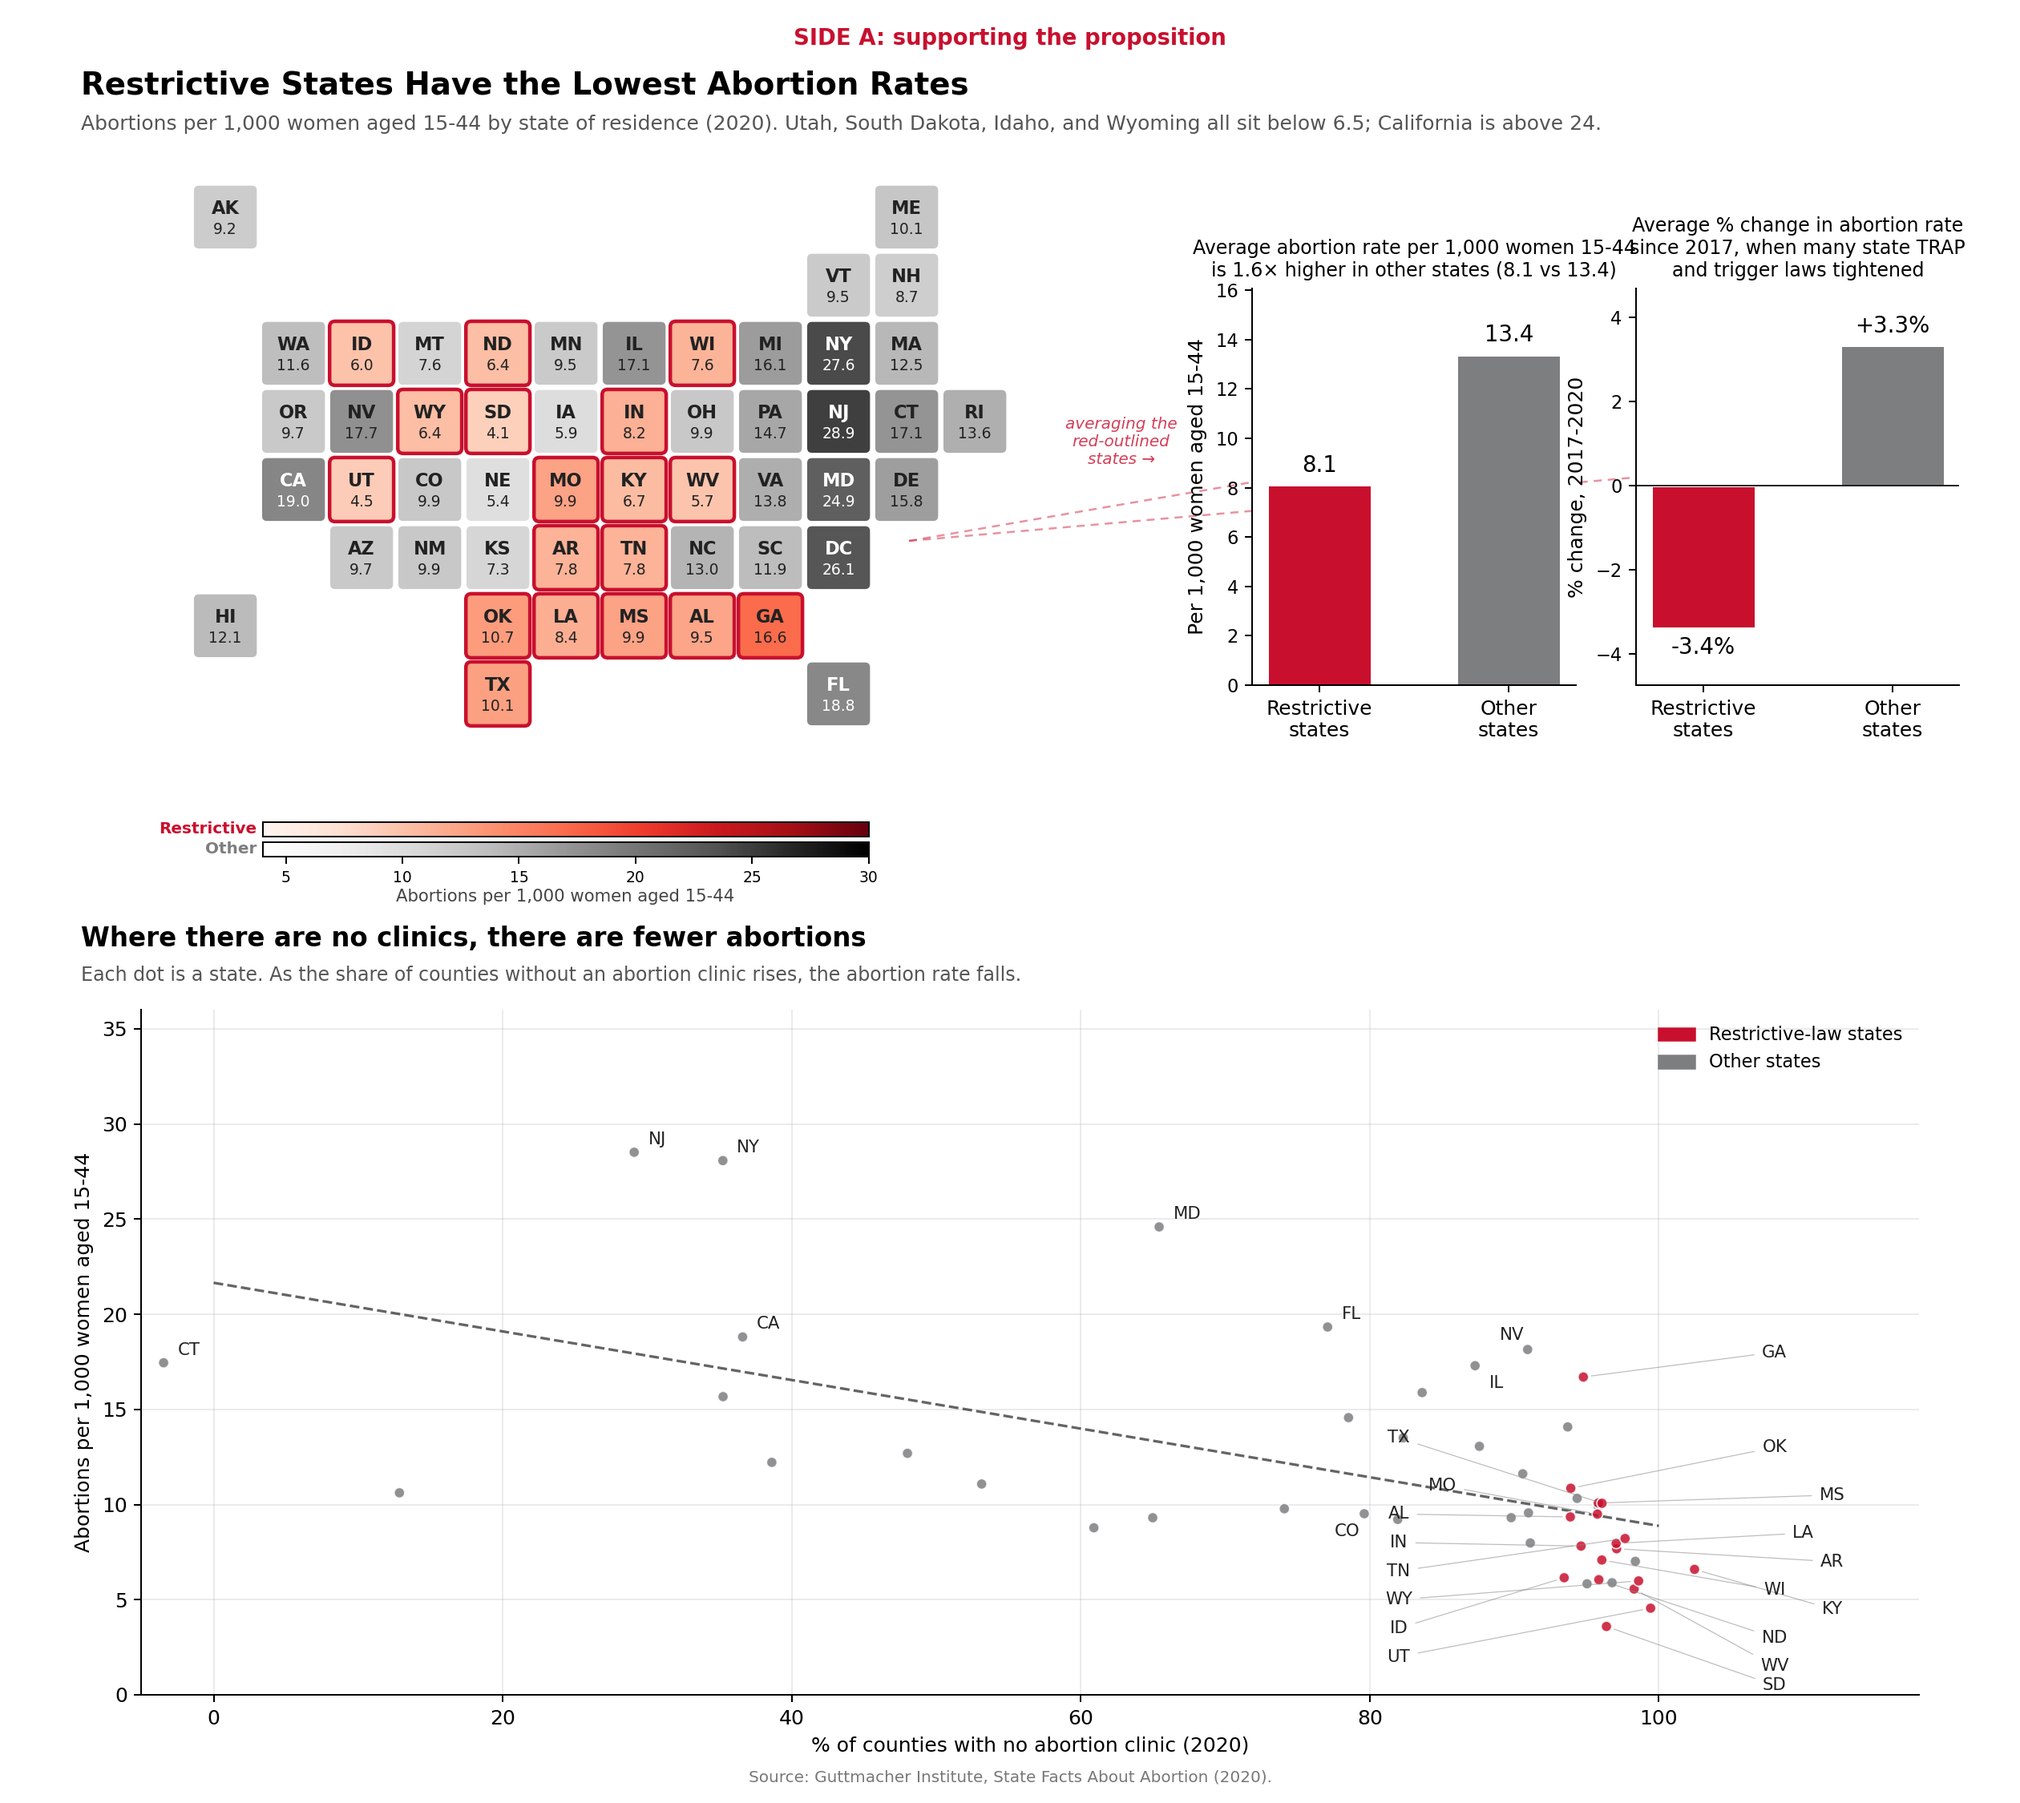
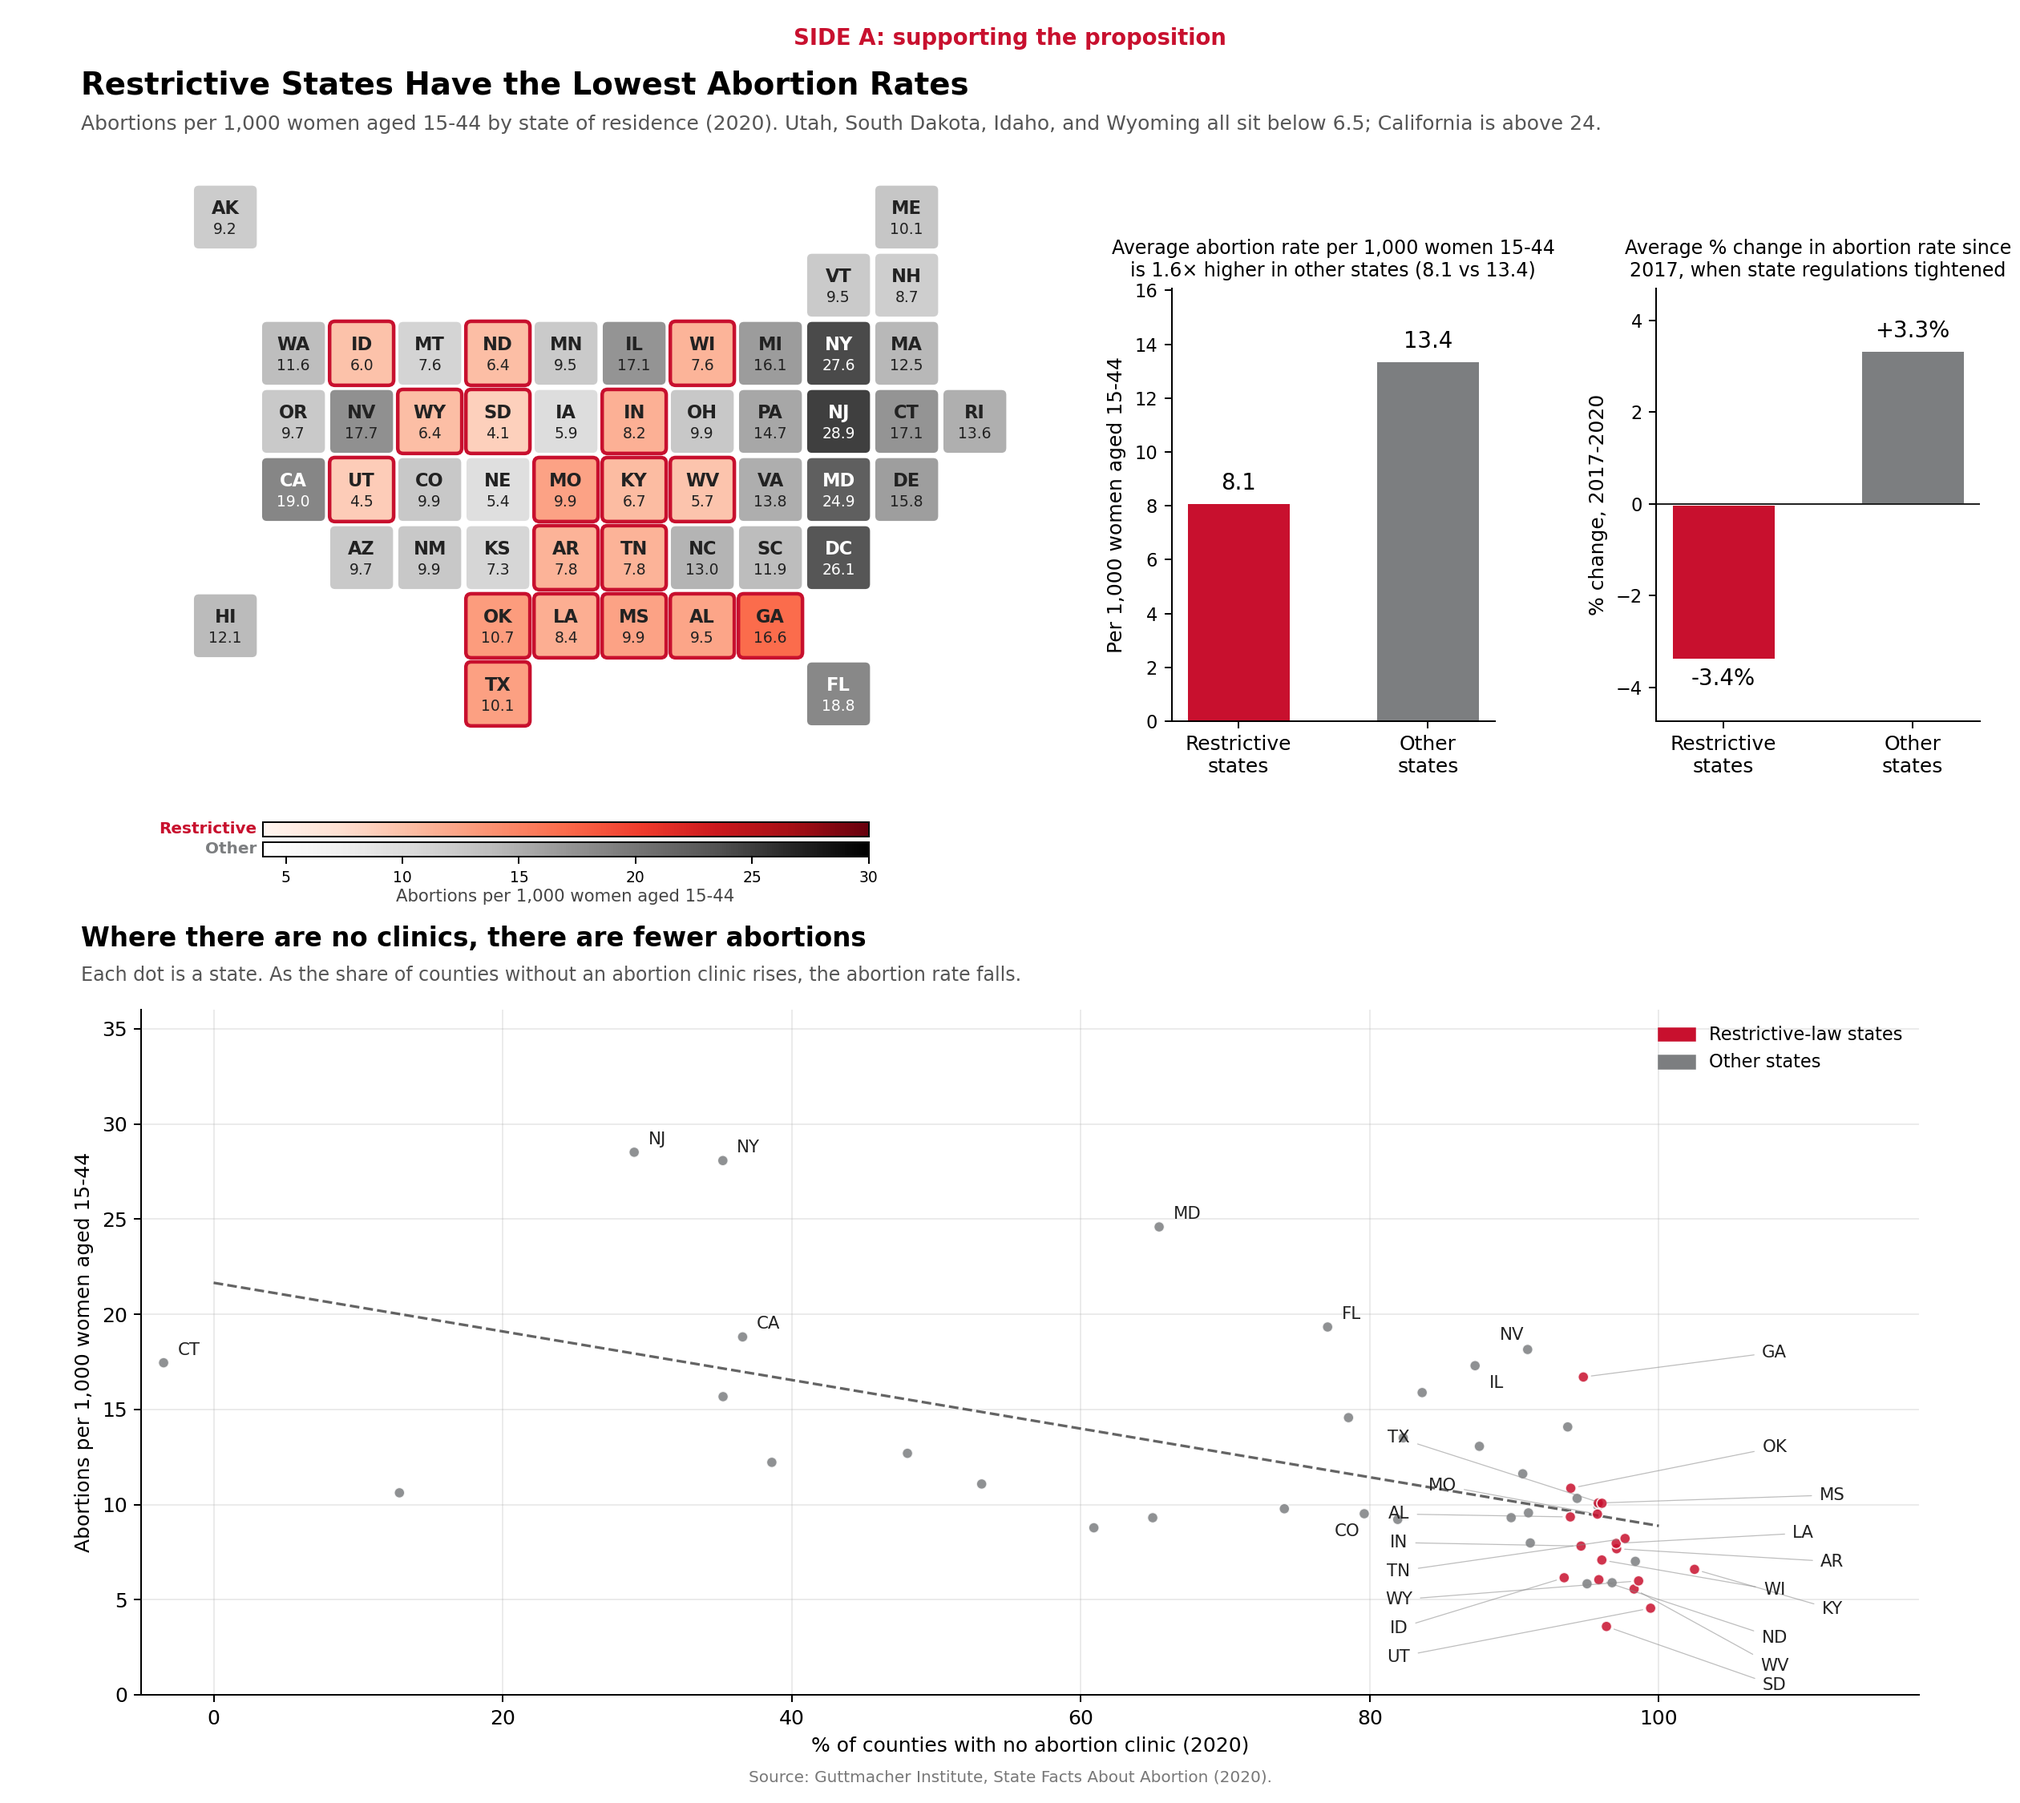
Edits to Format and Write-up

diff --git a/index.html b/index.html
@@ -199,7 +199,6 @@
         <small>Project 2</small>
         Persuasive or Deceptive Visualization?
       </h1>
-
       <p><strong>Elyse Wong</strong> — <em>elw018@ucsd.edu</em></p>
       <p><strong>Philip Chen</strong> — <em>phc006@ucsd.edu</em></p>
       <p><strong>Kyle Zhao</strong> — <em>kyzhao@ucsd.edu</em></p>
@@ -249,7 +248,7 @@
             >
             Both columns are in the dataset. Residence rate counts an abortion
             based on where the woman lives, occurrence rate based on where the
-            procedure happened. So a Missouri woman who gets an abortion in
+            procedure happened. So, a Missouri woman who gets an abortion in
             Illinois shows up in MO's residence rate and IL's occurrence rate.
             Using occurrence would have made restrictive states look near zero
             because almost nothing happens there, so we went with the more
@@ -270,13 +269,12 @@
           <li>
             <span class="score deceptive-1">-1</span>
             <span class="label"
-              >Sequential purple colormap with no breaks.</span
+              >Sequential gray colormap.</span
             >
-            No quantile bins, no labeled breaks, just one continuous ramp. The
-            eye does the binning. We also outline restrictive states in orange,
-            so the conclusion ("orange = pale = it worked") gets pre-loaded
-            before the reader looks at the numbers. A flatter version would
-            use quantile bins or grouped means with the breakpoints labeled.
+            We color and outline the restrictive states in red,
+            so the conclusion ("red = restrictive = it worked") gets pre-loaded
+            before the reader looks at the numbers. Because of the distinct red color 
+            in contrast to the grey, our eyes do the binning and remember how it worked. 
           </li>
           <li>
             <span class="score deceptive-1">-1</span>
@@ -348,22 +346,20 @@
           <li>
             <span class="score earnest-1">+1</span>
             <span class="label">Used the same map structure as Side A.</span>
-            Same tile grid, same purple ramp, same orange outlines on
-            restrictive states. You can flip between the two pages and the
-            states that were pale on A are dark on B. No relabeling tricks,
-            the encoding does the argument on its own.
+            Same tile grid, same grey ramp, and red outlines on
+            restrictive states. You can look between the two graphs and the
+            states that were pale on A are dark on B.
           </li>
           <li>
             <span class="score neutral">&nbsp;0</span>
             <span class="label"
               >Diverging "residence minus occurrence" gap chart.</span
             >
-            The math is sound: a positive gap means a state's residents got
+            A positive gap means a state's residents got
             more abortions than were performed in-state, so the difference
             had to happen somewhere else. The bars make it look like a clean
             handoff to the neighboring state, which is a stronger claim than
-            what the data supports. Some women travel further, some don't
-            get care at all. We didn't annotate any of that.
+            what the data supports. Some women may not care while some knowingly travel further, but we didn't annotate any of that.
           </li>
           <li>
             <span class="score deceptive-1">-1</span>
@@ -381,7 +377,7 @@
             "Women in Restrictive States Just Cross State Lines" reads like a
             verdict. The word "just" papers over the women who can't travel,
             who are the actual hardest case for the proposition. A flatter
-            version: "Most residents of restrictive states obtained abortions
+            version would be: "Most residents of restrictive states obtained abortions
             out of state."
           </li>
           <li>
@@ -391,8 +387,8 @@
             >
             Restrictive = red, other = gray, on both pages, with restrictive
             states outlined in red on the maps for redundant emphasis. Red
-            and gray is colorblind-safe (no red-green pair) and the contrast
-            is strong even in grayscale print. Red is loaded on this topic,
+            and gray is colorblind-safe and the contrast
+            is strong. Red is loaded on this topic,
             which is part of why it works as a persuasive choice on both
             sides: on Side A the red states read as "the ones that worked,"
             on Side B they read as "the ones whose residents are leaving."
@@ -406,35 +402,31 @@
         <p>
           The surprising part was how little we had to manipulate the data.
           Guttmacher publishes two abortion rates per state in the same row of
-          the spreadsheet: one by residence, one by occurrence. Both real,
-          both official. Side A is built on residence, Side B is built on the
+          the spreadsheet by residence and by occurrence. Side A is built on residence, Side B is built on the
           gap between the two (plus the travel column). Picking which column
-          to lead with did most of the persuasion. After that it was sort
-          order, dropping DC, and titles that pointed at causation without
-          quite saying it. We didn't have to make anything up.
+          to lead with did most of the persuasion. After that, we chose
+          sort order, dropped DC, and added titles that pointed at causation a bit deceptively.
         </p>
 
         <p>
           The harder part was getting Side A to feel as solid as Side B. The
-          checkpoint feedback was that Side A came across thin: just a map
-          and a scatter. So we added two more cuts that point the same way:
-          side-by-side averages, and the 2017 to 2020 change in residence
-          rate. None of those numbers are fake. They're all real columns.
-          They just stop holding up the moment the travel column shows up
-          next to them.
+          checkpoint feedback was that Side A came across thin, with just a map
+          and a scatter. So, we added the side-by-side averages, and the 2017 to 2020 change in residence
+          rate. These numbers aren't fake, but they don't quite hold up in the presence of the
+          travel column (that we didn't include!).
         </p>
 
         <p>
-          Our working rule for ethical analysis: if a reader who already
-          knows the dataset would agree with the framing, that's persuasion.
+          Our working rule for ethical analysis is if a reader who already
+          knows the dataset would agree with the framing, it's considered persuasion.
           If the framing only works because the reader doesn't know what got
-          left out, that's deception. By that test, parts of Side A are
+          left out, it's deception. By that test, parts of Side A are
           borderline (residence rate is fine, the title oversells) and a few
           moves cross the line (dropping DC, unweighted averages, no controls
           for demand). Side B is mostly clean because it puts back the column
-          that was missing. The check we'd run on any chart: if you add the
-          missing context back in, does the story change? If yes, the chart
-          owed that context. If no, it's just emphasis, and emphasis is fair.
+          that was missing. Knowing this, the check we'd run on any chart is if you add the
+          missing context back in, does the story change? If yes, the chart is
+          owed that context. If not, it's just persuasion!
         </p>
       </section>
     </main>

diff --git a/build_vizzes.py b/build_vizzes.py
@@ -228,7 +228,7 @@ def build_for_image(out='for.png'):
     # Right-side aggregates: averages and 2017->2020 change
     restr_avg = df[df['abbr'].isin(RESTRICTIVE)][RATE_RES].mean()
     other_avg = df[~df['abbr'].isin(RESTRICTIVE) & df['abbr'].notna() & (df['abbr'] != 'DC')][RATE_RES].mean()
-    ax_a = fig.add_axes([0.62, 0.62, 0.16, 0.22])
+    ax_a = fig.add_axes([0.58, 0.60, 0.16, 0.24])
     comparison_bars(ax_a, restr_avg, other_avg, 'Per 1,000 women aged 15-44')
     ax_a.set_title(
         'Average abortion rate per 1,000 women 15-44\n'
@@ -238,31 +238,13 @@ def build_for_image(out='for.png'):
 
     restr_chg = df[df['abbr'].isin(RESTRICTIVE)][CHG_RATE].mean()
     other_chg = df[~df['abbr'].isin(RESTRICTIVE) & df['abbr'].notna() & (df['abbr'] != 'DC')][CHG_RATE].mean()
-    ax_b = fig.add_axes([0.81, 0.62, 0.16, 0.22])
+    ax_b = fig.add_axes([0.82, 0.60, 0.16, 0.24])
     comparison_bars(ax_b, restr_chg, other_chg, '% change, 2017-2020',
                     value_fmt='{:+.1f}%')
     ax_b.set_title(
-        'Average % change in abortion rate\n'
-        'since 2017, when many state TRAP\n'
-        'and trigger laws tightened',
+        'Average % change in abortion rate since\n'
+        '2017, when state regulations tightened',
         fontsize=9.5, pad=6)
-
-    # Connector lines: map's restrictive cluster -> red bar in each chart.
-    # The line literally points from the red-outlined states on the map
-    # to the red bar that summarizes them.
-    import matplotlib.lines as mlines
-    map_anchor = (0.45, 0.70)   # right edge of restrictive cluster on map
-    for bar_x in (0.648, 0.838):  # x of the red 'Restrictive states' bar in each chart
-        line = mlines.Line2D(
-            [map_anchor[0], bar_x], [map_anchor[1], 0.738],
-            transform=fig.transFigure,
-            color=RED, lw=1.0, alpha=0.45, linestyle=(0, (4, 3)),
-            zorder=0
-        )
-        fig.add_artist(line)
-    fig.text(0.555, 0.755, 'averaging the\nred-outlined\nstates →',
-             fontsize=8, color=RED, alpha=0.8, ha='center', va='center',
-             style='italic')
 
     # Bottom: scatter (taller chart + smaller dots + wider jitter to reduce overlap)
     fig.text(0.04, 0.475, 'Where there are no clinics, there are fewer abortions',
